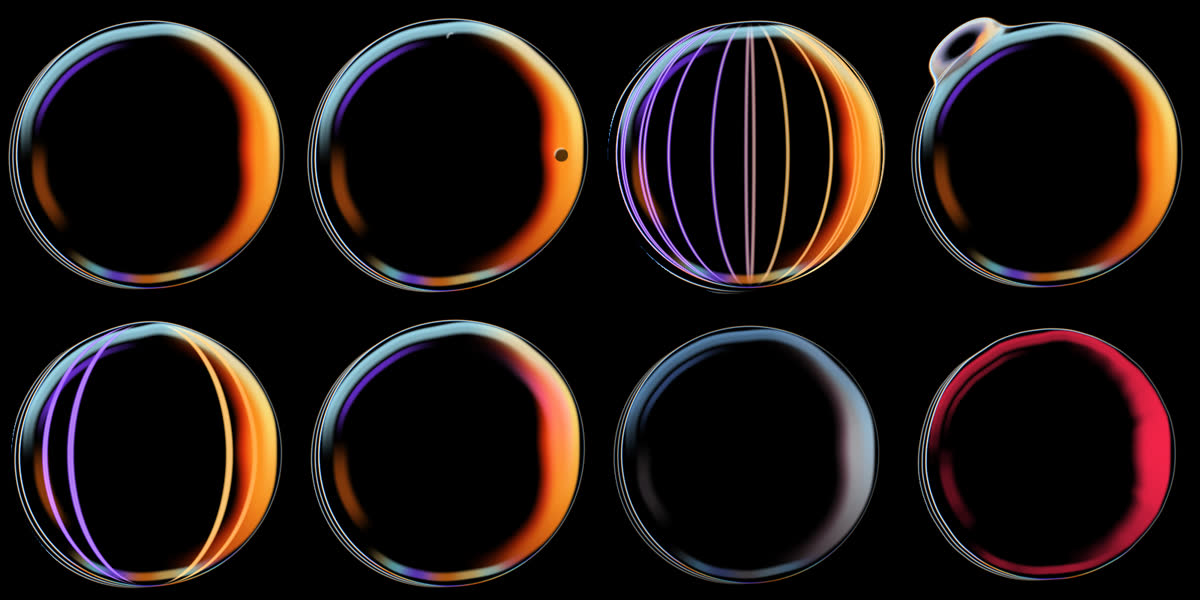
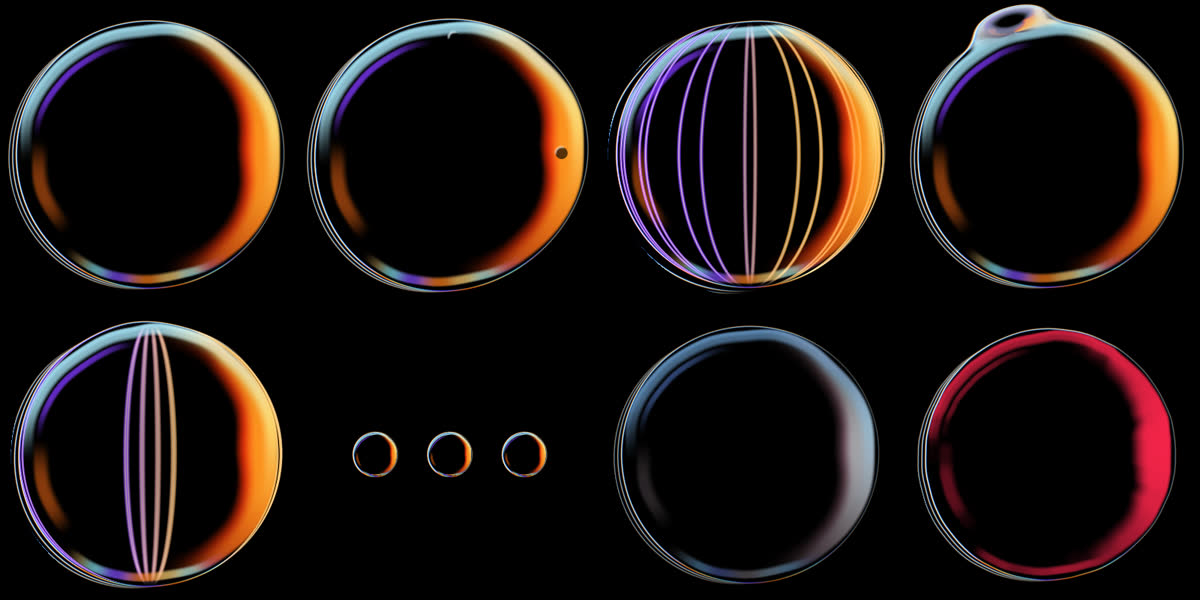
Turn the responding state into three hopping orbs
The orb shrinks and buds into three small iridescent orbs that hop in
turn like a typing indicator, and merges back when the state changes.

Claude-Session: https://claude.ai/code/session_01BaE6FM3LqtSXnwwpYWRZk3

diff --git a/orb/orb.js b/orb/orb.js
@@ -14,7 +14,8 @@
 precision highp float;
 uniform vec2 uRes;
 uniform float uTime, uR, uWob, uRibs, uRibPhase, uDimples, uBulge, uBulgeAng,
-              uSatR, uSatAng, uSatDist, uLayers, uJitter, uGlow, uHue, uCool, uCurl, uBloom;
+              uSatR, uSatAng, uSatDist, uLayers, uJitter, uGlow, uHue, uCool, uCurl, uBloom, uDots;
+uniform vec3 uDotY;
 
 float h1(float n){ return fract(sin(n) * 43758.5453); }
 float h2(vec2 p){ return fract(sin(dot(p, vec2(127.1, 311.7))) * 43758.5453); }
@@ -49,9 +50,20 @@ float sdSat(vec2 p){
   vec2 l = p - dir*uSatDist;
   return length(vec2(dot(l, vec2(-dir.y, dir.x))*.5, dot(l, dir)*1.15)) - uSatR;
 }
+// Responding: three small orbs in a row, each lifted by uDotY.
+const float DOT_GAP = .44, DOT_R = .13;
+float sdDots(vec2 p){
+  float d = 1e3;
+  for (int i = 0; i < 3; i++) {
+    vec2 c = vec2((float(i) - 1.)*DOT_GAP*uDots, uDotY[i]);
+    d = min(d, length(p - c) - DOT_R*uDots);
+  }
+  return d;
+}
 float sdf(vec2 p){
   float d = sdMain(p);
   if (uSatR > .001) d = smin(d, sdSat(p), .13);
+  if (uDots > .001) d = smin(d, sdDots(p), .02 + .12*(1. - uDots));   // bud out, then separate
   return d;
 }
 
@@ -68,7 +80,7 @@ void main(){
   float scale = .5 * min(uRes.x, uRes.y);
   vec2 p = (gl_FragCoord.xy - .5*uRes) / scale;
   float px = 1. / scale;
-  if (length(p) > uR*1.55) { gl_FragColor = vec4(0.); return; }
+  if (length(p) > max(uR*1.55, .75*step(.001, uDots))) { gl_FragColor = vec4(0.); return; }
   float d = sdf(p);
   if (d > .05) { gl_FragColor = vec4(0.); return; }
 
@@ -83,7 +95,12 @@ void main(){
     satW = clamp(.5 + .5*(sdMain(p) - sdSat(p))/.1, 0., 1.);
     Rloc = mix(Rloc, uSatR*1.6, satW);
   }
-  float q = clamp(1. + min(d, 0.)/Rloc, 0., 1.);
+  float dotW = 0.;
+  if (uDots > .001) {
+    dotW = clamp(.5 + .5*(sdMain(p) - sdDots(p))/.05, 0., 1.);
+    Rloc = mix(Rloc, DOT_R*uDots, dotW);   // each small orb is shaded as its own bubble
+  }
+  float q = clamp(1. + min(d, 0.)/max(Rloc, 1e-3), 0., 1.);
   float inside = smoothstep(px, -px, d);
 
   // Screen angle of the surface (0 = 3 o'clock, pi/2 = 12 o'clock), with a
@@ -204,9 +221,10 @@ void main(){
     float ta = atan(po.y, po.x);
     float dl = length(po) - radiusAt(ta) * (1. - .008*fi + .012*uLayers*fi);
     if (uSatR > .001 && i == 0) dl = smin(dl, sdSat(p), .13);
+    if (uDots > .001 && i == 0) dl = smin(dl, sdDots(p), .02 + .12*(1. - uDots));
     float sp = hw*.25;
     vec3 g = vec3(exp(-pow((dl - sp)/hw, 2.)), exp(-pow(dl/hw, 2.)), exp(-pow((dl + sp)/hw, 2.)));
-    float side = i == 0 ? rimI : arange(ta, 2.3, 4.5, .35) * (1.2 - .3*fi) * (1. + uLayers);
+    float side = i == 0 ? rimI : arange(ta, 2.3, 4.5, .35) * (1.2 - .3*fi) * (1. + uLayers) * (1. - uDots);
     vec3 tc = i == 0 ? tint : vec3(.9, .97, 1.);
     col += g * tc * side * 1.6;
   }
@@ -221,7 +239,7 @@ void main(){
   // Shape targets per state. The orb eases toward the active state's values.
   const BASE = {
     radius: 1, wobble: .006, ribs: 0, ribSpd: 1, ribPulse: 0, dimples: 0, bulge: 0,
-    sat: 0, layers: 0, jitter: 0, glow: 1, hue: 0, cool: 0, speed: 1,
+    sat: 0, layers: 0, dots: 0, jitter: 0, glow: 1, hue: 0, cool: 0, speed: 1,
   };
   const STATES = {
     idle:        { label: 'Idle',        hint: 'Ready, nothing happening', wobble: .004, speed: .6 },
@@ -233,14 +251,14 @@ void main(){
                    wobble: .012, sat: 1 },
     working:     { label: 'Working',     hint: 'Running tools, editing files',
                    wobble: .012, ribs: .7, ribSpd: 2.6, layers: .5, glow: 1.08, speed: 1.2 },
-    typing:      { label: 'Responding',  hint: 'Streaming the answer', bulge: 1 },
+    typing:      { label: 'Responding',  hint: 'Streaming the answer', dots: 1 },
     waiting:     { label: 'Needs you',   hint: 'Waiting for approval or input',
                    radius: .96, wobble: .005, glow: .75, cool: .75, speed: .45 },
     error:       { label: 'Error',       hint: 'Something failed',
                    radius: .95, wobble: .012, jitter: 1, glow: .9, hue: 1 },
   };
   const UNIFORMS = ['uRes', 'uTime', 'uR', 'uWob', 'uRibs', 'uRibPhase', 'uDimples', 'uBulge',
-    'uBulgeAng', 'uSatR', 'uSatAng', 'uSatDist', 'uLayers', 'uJitter', 'uGlow', 'uHue', 'uCool', 'uCurl', 'uBloom'];
+    'uBulgeAng', 'uSatR', 'uSatAng', 'uSatDist', 'uLayers', 'uJitter', 'uGlow', 'uHue', 'uCool', 'uCurl', 'uBloom', 'uDots', 'uDotY'];
   const R = .78; // orb radius as a fraction of half the canvas' short side
 
   function compile(gl, type, src) {
@@ -342,7 +360,7 @@ void main(){
         bulge += cur.sat * .015 * swell;
         if (cur.bulge < .01) bulgeAng = -1.6;   // soft lobe at 5-7 o'clock
       }
-      const r = R * (cur.radius + .09 * swell) * (1 + .012 * Math.sin(t * 1.3)) + pop * .06
+      const r = (R * (cur.radius + .09 * swell) * (1 + .012 * Math.sin(t * 1.3)) + pop * .06) * (1 - cur.dots)
         + (active === 'listening' && level != null ? level * .04 : 0);
 
       resize();
@@ -356,6 +374,12 @@ void main(){
       gl.uniform1f(U.uBulge, bulge);
       gl.uniform1f(U.uBulgeAng, bulgeAng);
       gl.uniform1f(U.uCurl, curl);
+      // Responding: the orb shrinks into three small orbs that hop in turn,
+      // like a typing indicator; speech loudness lifts them a little higher.
+      gl.uniform1f(U.uDots, cur.dots);
+      const hop = i => .09 * cur.dots * (1 + .5 * voice) *
+        Math.pow(Math.max(0, Math.sin(t * 2 * Math.PI / 1.3 - i * .9)), 2);
+      gl.uniform3f(U.uDotY, hop(0), hop(1), hop(2));
       gl.uniform1f(U.uBloom, cur.bulge * (.1 + 1.1 * swellT + .3 * voice));
       gl.uniform1f(U.uSatR, cur.sat * .15 * R * Math.pow(life, .6));
       gl.uniform1f(U.uSatAng, satAng);

diff --git a/orb/README.md b/orb/README.md
@@ -29,7 +29,7 @@ The states come from how shipping assistants signal status. Amazon's Echo light 
 | `thinking` | Reasoning before the first token | Folds sweep in as vertical streaks, open into rings and fade, on a ~5 s cycle (`008d…`) |
 | `researching` | Web search, reading sources | The rim layers, then a droplet buds off, slides around the edge and merges back (`f4c6…`) |
 | `working` | Tool calls, editing files, running code | Folds turn fast and the rim splits into offset layers |
-| `typing` | Streaming the answer | One side swells in a speech-like rhythm (`1074…`). `setLevel()` can drive it from TTS volume |
+| `typing` | Streaming the answer | Splits into three small orbs that hop in turn like a typing indicator, then merges back. `setLevel()` (e.g. TTS volume) makes them hop higher |
 | `waiting` | Needs approval or input from the user | Smaller, cooler and dimmer, with a slow pulse |
 | `error` | A request or tool failed | Shrinks, shivers and turns red |
 | `success` (one-shot) | A task just finished | Springy pop and flash, then it returns to the current state |
